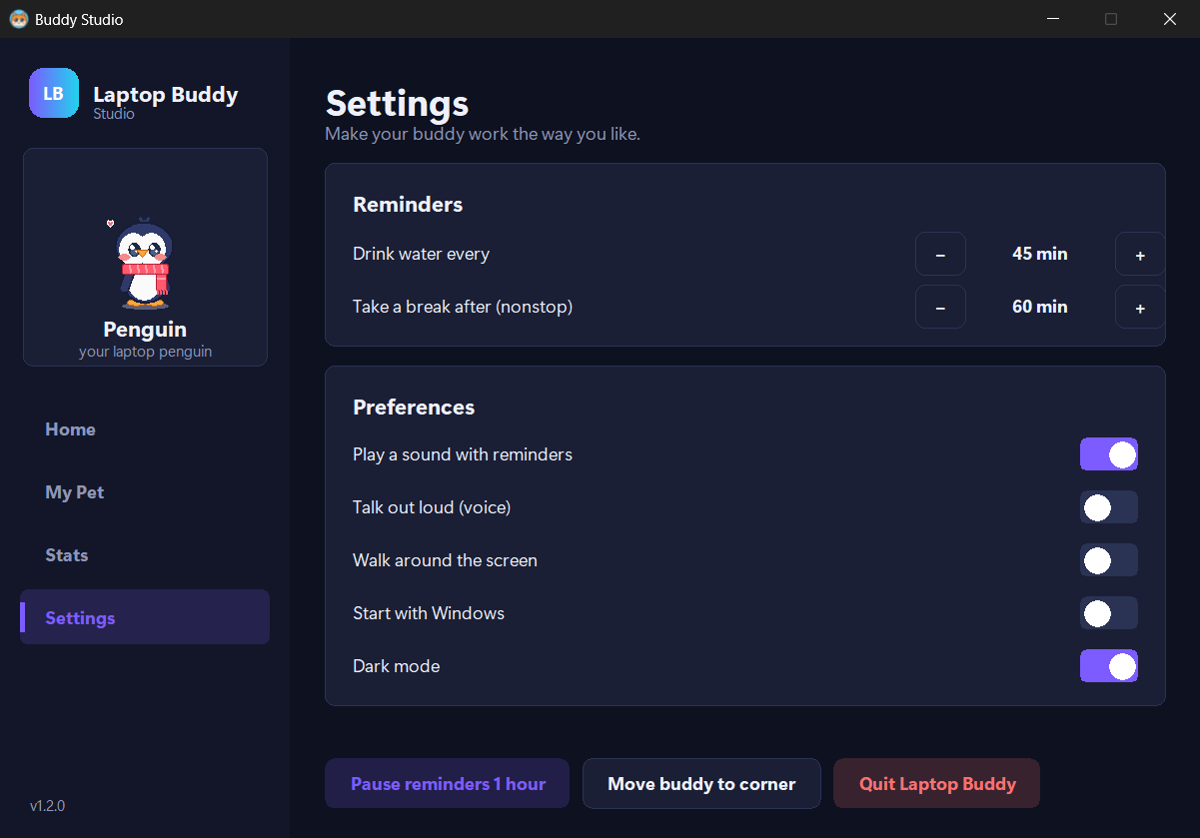
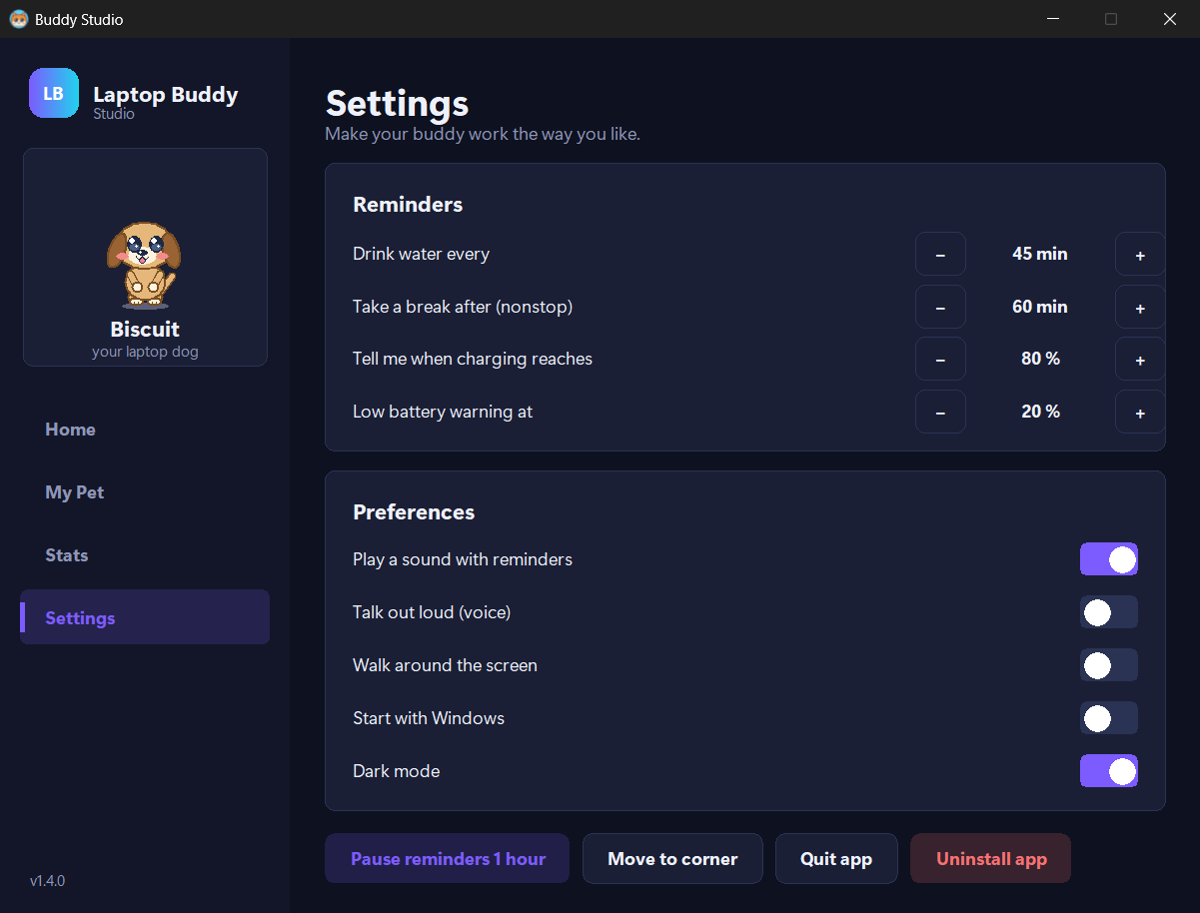
Website: 5 new pets (cat, dog, bunny, bear, koala), v1.4.0

diff --git a/index.html b/index.html
@@ -78,9 +78,11 @@
           transform:perspective(1400px) rotateY(-9deg) rotateX(4deg);transition:transform .6s ease}
   .stage:hover .window{transform:perspective(1400px) rotateY(-3deg) rotateX(2deg)}
   .pets-on-top{position:absolute;top:0;left:8%;right:8%;display:flex;justify-content:space-between;align-items:flex-end;z-index:2;pointer-events:none}
-  .pets-on-top img{height:120px;width:auto;animation:bob 2.6s ease-in-out infinite;filter:drop-shadow(0 10px 14px rgba(0,0,0,.35))}
-  .pets-on-top img:nth-child(2){animation-delay:.4s;height:104px}
-  .pets-on-top img:nth-child(3){animation-delay:.8s;height:104px}
+  .pets-on-top img{height:96px;width:auto;animation:bob 2.6s ease-in-out infinite;filter:drop-shadow(0 10px 14px rgba(0,0,0,.35))}
+  .pets-on-top img:nth-child(2){animation-delay:.3s}
+  .pets-on-top img:nth-child(3){animation-delay:.6s;height:112px}
+  .pets-on-top img:nth-child(4){animation-delay:.9s}
+  .pets-on-top img:nth-child(5){animation-delay:1.2s}
   @keyframes bob{50%{transform:translateY(-10px)}}
   .float{position:absolute;z-index:3;background:var(--card);border:1px solid var(--line);border-radius:16px;
          padding:10px 14px;font-weight:700;font-size:.9rem;box-shadow:var(--shadow);animation:drift 5s ease-in-out infinite}
@@ -130,7 +132,7 @@
   .chip i{width:18px;height:18px;border-radius:50%;display:block;border:2px solid rgba(255,255,255,.4)}
 
   /* studio */
-  .studio-shot{max-width:980px;margin:0 auto;border-radius:22px;overflow:hidden;border:1px solid var(--line);box-shadow:var(--shadow);position:relative;aspect-ratio:1200/838;background:var(--card)}
+  .studio-shot{max-width:980px;margin:0 auto;border-radius:22px;overflow:hidden;border:1px solid var(--line);box-shadow:var(--shadow);position:relative;aspect-ratio:1200/913;background:var(--card)}
   .studio-shot img{position:absolute;inset:0;width:100%;height:100%;object-fit:cover;opacity:0;transition:opacity .45s ease}
   .studio-shot img.on{opacity:1}
 
@@ -161,7 +163,9 @@
   .final h2{margin-top:0}
   .final .pets{display:flex;justify-content:center;gap:22px;margin-bottom:22px}
   .final .pets img{height:84px;width:auto;animation:bob 2.6s ease-in-out infinite}
+  .final .pets{flex-wrap:wrap}
   .final .pets img:nth-child(2){animation-delay:.3s}.final .pets img:nth-child(3){animation-delay:.6s}
+  .final .pets img:nth-child(4){animation-delay:.9s}.final .pets img:nth-child(5){animation-delay:1.2s}
   footer{padding:40px 0 60px;color:var(--muted);text-align:center;font-size:.9rem}
 
   /* reveal */
@@ -184,7 +188,9 @@
     .petcard{grid-template-columns:1fr;text-align:center;justify-items:center}
     .chips{justify-content:center}
     .window{transform:none}
-    .pets-on-top img{height:84px}.pets-on-top img:nth-child(n+2){height:72px}
+    .pets-on-top{left:2%;right:2%}
+    .pets-on-top img{height:60px}.pets-on-top img:nth-child(3){height:70px}
+    .final .pets img{height:64px}
   }
 </style>
 </head>
@@ -201,7 +207,7 @@
 
 <header class="wrap hero">
   <div class="reveal">
-    <span class="pill"><b>New</b> v1.3 · Charge alerts at 80% – or any level you like</span>
+    <span class="pill"><b>New</b> v1.4 · Meet the cat, dog, bunny, bear &amp; koala</span>
     <h1>Your laptop deserves a <span class="grad-text">buddy.</span></h1>
     <p class="lead">A cute pet that lives on your Windows screen – it reminds you to drink water, take breaks and charge your battery, and it swings, plays and rides a bike around your desktop.</p>
     <div class="cta-row">
@@ -214,7 +220,7 @@
   </div>
   <div class="stage reveal">
     <div class="pets-on-top" aria-hidden="true">
-      <img src="img/fox.png" alt=""><img src="img/panda.png" alt=""><img src="img/penguin.png" alt="">
+      <img src="img/cat.png" alt=""><img src="img/dog.png" alt=""><img src="img/bunny.png" alt=""><img src="img/fox.png" alt=""><img src="img/koala.png" alt="">
     </div>
     <div class="window"><img src="img/studio-home.png" alt="Buddy Studio home screen with a live penguin and quick actions"></div>
     <div class="float f1">💧 Water time!<small>Every 45 min, your rules</small></div>
@@ -247,7 +253,7 @@
       <div class="tile span2 reveal">
         <div class="ic" style="background:rgba(251,146,60,.15)">🍎</div>
         <h3>Feed &amp; play</h3>
-        <p>Drop snacks from the sky, push it on a swing or watch it bounce a ball.</p>
+        <p>Drop snacks from the sky – bones for dogs, carrots for bunnies, bamboo for pandas – then swing or play ball.</p>
       </div>
       <div class="tile span2 reveal">
         <div class="ic" style="background:rgba(167,139,250,.15)">🚲</div>
@@ -273,11 +279,16 @@
   <div class="wrap">
     <p class="eyebrow reveal">Pets &amp; skins</p>
     <h2 class="reveal">Pick your pet. <span class="grad-text">Make it yours.</span></h2>
-    <p class="sub reveal">Three pets, 15 skins, any colour you like – and a name of your choice.</p>
+    <p class="sub reveal">Eight pets, 40 skins, any colour you like – and a name of your choice.</p>
     <div class="tabs reveal" role="tablist">
       <button class="tab" role="tab" aria-selected="true" data-pet="fox">🦊 Fox</button>
       <button class="tab" role="tab" aria-selected="false" data-pet="panda">🐼 Panda</button>
       <button class="tab" role="tab" aria-selected="false" data-pet="penguin">🐧 Penguin</button>
+      <button class="tab" role="tab" aria-selected="false" data-pet="cat">🐱 Cat</button>
+      <button class="tab" role="tab" aria-selected="false" data-pet="dog">🐶 Dog</button>
+      <button class="tab" role="tab" aria-selected="false" data-pet="bunny">🐰 Bunny</button>
+      <button class="tab" role="tab" aria-selected="false" data-pet="bear">🐻 Bear</button>
+      <button class="tab" role="tab" aria-selected="false" data-pet="koala">🐨 Koala</button>
     </div>
     <div class="showcase reveal">
       <div class="petcard"><div class="art"><img id="pet-a" src="img/fox.png" alt="Classic fox"></div>
@@ -344,13 +355,13 @@
 
 <div class="wrap reveal">
   <div class="final">
-    <div class="pets" aria-hidden="true"><img src="img/panda-galaxy.png" alt=""><img src="img/fox-sakura.png" alt=""><img src="img/penguin-royal.png" alt=""></div>
+    <div class="pets" aria-hidden="true"><img src="img/dog-husky.png" alt=""><img src="img/panda-galaxy.png" alt=""><img src="img/cat-ginger.png" alt=""><img src="img/bunny-lavender.png" alt=""><img src="img/bear-polar.png" alt=""></div>
     <h2>Give your laptop a <span class="grad-text">buddy</span></h2>
     <p class="sub" style="margin-bottom:28px">Stay hydrated, take breaks, and smile a little more.</p>
     <a class="btn btn-primary" href="https://github.com/nitesh2907/laptop-buddy/releases/latest/download/LaptopBuddySetup.exe">Download for Windows</a>
   </div>
 </div>
-<footer>Laptop Buddy v1.3.0 · Made with 💜 for people who forget to drink water</footer>
+<footer>Laptop Buddy v1.4.0 · Made with 💜 for people who forget to drink water</footer>
 
 <script>
   // reveal on scroll
@@ -364,7 +375,17 @@
     panda: {name: 'Panda', desc: 'Runs on bamboo and naps. Pink toe beans included.', alt: 'galaxy', altName: 'Galaxy',
             skins: [['Classic', '#2a2a2e'], ['Cocoa', '#6b4226'], ['Bubblegum', '#f06292'], ['Mint', '#3fa99d'], ['Galaxy', '#3b2f7a']]},
     penguin: {name: 'Penguin', desc: 'Scarf on, flippers ready. Waddles and eats fish.', alt: 'royal', altName: 'Royal',
-              skins: [['Classic', '#2f3a6b'], ['Emperor', '#22262e'], ['Bubblegum', '#e86aa6'], ['Mint', '#2e8b7f'], ['Royal', '#5b3fa0']]}
+              skins: [['Classic', '#2f3a6b'], ['Emperor', '#22262e'], ['Bubblegum', '#e86aa6'], ['Mint', '#2e8b7f'], ['Royal', '#5b3fa0']]},
+    cat: {name: 'Cat', desc: 'Tabby stripes, whiskers and a curly tail. Loves fish.', alt: 'ginger', altName: 'Ginger',
+          skins: [['Tabby', '#a4adb8'], ['Ginger', '#f2a65a'], ['Midnight', '#3a3a48'], ['Snow', '#fbfbfd'], ['Lilac', '#c7aee6']]},
+    dog: {name: 'Dog', desc: 'Floppy ears, waggy tail, tongue out. Will do anything for a bone.', alt: 'husky', altName: 'Husky',
+          skins: [['Golden', '#e5b77a'], ['Chocolate', '#8a5a36'], ['Husky', '#9fb0c4'], ['Snow', '#fafafa'], ['Bubblegum', '#f6a5c3']]},
+    bunny: {name: 'Bunny', desc: 'Tall wiggly ears and a puff tail. Carrots, please!', alt: 'lavender', altName: 'Lavender',
+            skins: [['Snow', '#f7f7fb'], ['Cocoa', '#9a6b4a'], ['Grey', '#b9bcc6'], ['Peach', '#ffcfae'], ['Lavender', '#d9c8f2']]},
+    bear: {name: 'Bear', desc: 'Round ears, big hugs. Fish and honey-sweet snacks.', alt: 'polar', altName: 'Polar',
+           skins: [['Brown', '#b27948'], ['Polar', '#f7f8fa'], ['Honey', '#e9b04f'], ['Black', '#3b3431'], ['Berry', '#e58fb0']]},
+    koala: {name: 'Koala', desc: 'Big fluffy ears and a sleepy smile. Loves leafy snacks.', alt: 'blush', altName: 'Blush',
+            skins: [['Grey', '#a7afba'], ['Charcoal', '#5e6470'], ['Mint', '#8fd3c4'], ['Blush', '#f2b3c6'], ['Sky', '#9cc7f0']]}
   };
   function showPet(k) {
     const p = PETS[k];
